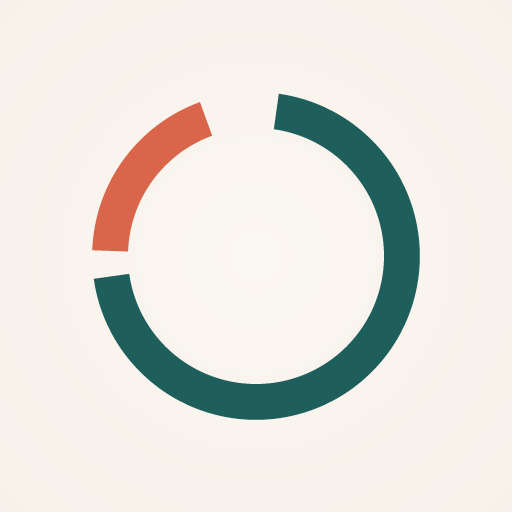
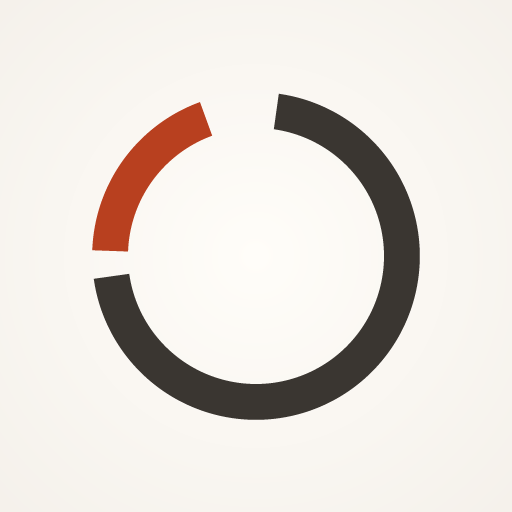
Warm charcoal redesign: new palette, status pill and budget progress in the main card, ring chart with category list

Changed region(s): [[0.1875, 0.1875, 0.8438, 0.8438], [0.1562, 0.1875, 0.4062, 0.5]]

diff --git a/css/app.css b/css/app.css
@@ -1,29 +1,38 @@
 /* My Budget – colours live here only. Light by default; dark follows the phone's setting. */
 :root {
-  --bg: #F6F1E9;
-  --surface: #FFFCF7;
-  --sheet: #FBF7F1;
-  --accent: #1F5F5B;
-  --accent-soft: rgba(31, 95, 91, 0.12);
+  --bg: #F4F0EA;
+  --surface: #FFFDF9;          /* other cards */
+  --sheet: #F8F4EE;
+  --accent: #3A3631;           /* warm charcoal: main card, + button, active tab */
+  --accent-2: #4F4A44;         /* status pill and progress track on the main card */
+  --accent-soft: rgba(58, 54, 49, 0.08);
   --on-accent: #FFFFFF;
-  --in: #3E8E63;
-  --out: #D9654B;
-  --sage: #DDEBDD;
-  --peach: #FBE3D3;
-  --lav: #E6E3F3;
-  --text: #23282B;
-  --label: #7A7F82;
-  --faint: rgba(35, 40, 43, 0.45);
-  --line: rgba(35, 40, 43, 0.09);
-  --line-strong: rgba(35, 40, 43, 0.2);
-  --field: rgba(35, 40, 43, 0.05);
-  --track: rgba(35, 40, 43, 0.08);
-  --shadow: 0 6px 22px rgba(35, 40, 43, 0.07);
-  --shadow-lift: 0 14px 36px rgba(35, 40, 43, 0.16);
-  --scrim: rgba(28, 32, 35, 0.38);
-  /* ring chart palette */
-  --c1: #1F5F5B; --c2: #3E8E63; --c3: #D9654B; --c4: #8A7FC4; --c5: #E0A458;
-  --c6: #5B9BB0; --c7: #C77D9A; --c8: #9BA65D; --c9: #7A7F82;
+  --on-accent-label: #D9D2C8;
+  --hero-fill: #F4EDE2;        /* progress fill on the main card */
+  --strong: #3A3631;           /* focus rings, links, dots, progress fills on light cards */
+  --in: #3F5139;               /* money in text */
+  --out: #94533A;              /* money out text */
+  --in-bg: #E3EADD;
+  --out-bg: #F3E1D3;
+  --soft: #EFE9E0;             /* quiet inner boxes: advice line, goal rows */
+  --settings-bg: #E8E1D6;
+  --tab-idle: #8A847C;
+  --sage: var(--in-bg);
+  --peach: var(--out-bg);
+  --lav: var(--soft);
+  --text: #23211E;
+  --label: #5E5A55;
+  --faint: rgba(35, 33, 30, 0.45);
+  --line: rgba(35, 33, 30, 0.08);
+  --line-strong: rgba(35, 33, 30, 0.2);
+  --field: rgba(35, 33, 30, 0.05);
+  --track: rgba(35, 33, 30, 0.08);
+  --shadow: 0 6px 22px rgba(58, 54, 49, 0.06);
+  --shadow-lift: 0 14px 36px rgba(58, 54, 49, 0.16);
+  --scrim: rgba(27, 25, 23, 0.36);
+  /* spending category colours: deep, warm, saturated */
+  --c1: #B8401F; --c2: #D4900F; --c3: #4E6B2A; --c4: #7A2E2A; --c5: #8A5A2B;
+  --c6: #A8652A; --c7: #5F6B3A; --c8: #9C3B4A; --c9: #6E5F4E;
 
   --font: ui-rounded, "SF Pro Rounded", "Nunito", "Varela Round", system-ui, -apple-system, "Segoe UI", sans-serif;
   --r-card: 26px;
@@ -37,28 +46,35 @@
 
 @media (prefers-color-scheme: dark) {
   :root {
-    --bg: #1C2023;
-    --surface: #252A2E;
-    --sheet: #22272A;
-    --accent: #2E8A83;
-    --accent-soft: rgba(46, 138, 131, 0.2);
-    --in: #6CC28F;
-    --out: #F08A6E;
-    --sage: #243A2E;
-    --peach: #3D2A23;
-    --lav: #2B2940;
+    --bg: #1B1917;
+    --surface: #25221F;
+    --sheet: #221F1C;
+    --accent: #45403A;
+    --accent-2: #5A544D;
+    --accent-soft: rgba(242, 238, 232, 0.08);
+    --on-accent: #FFFFFF;
+    --on-accent-label: #D9D2C8;
+    --hero-fill: #EDE5D8;
+    --strong: #E8E1D6;
+    --in: #AFCBA3;
+    --out: #EBA88B;
+    --in-bg: #29342A;
+    --out-bg: #3D2A23;
+    --soft: #2E2A26;
+    --settings-bg: #2E2A26;
+    --tab-idle: #8A847C;
     --text: #F2EEE8;
-    --label: #9AA0A3;
+    --label: #A8A39B;
     --faint: rgba(242, 238, 232, 0.45);
-    --line: rgba(242, 238, 232, 0.09);
+    --line: rgba(242, 238, 232, 0.08);
     --line-strong: rgba(242, 238, 232, 0.2);
     --field: rgba(242, 238, 232, 0.06);
     --track: rgba(242, 238, 232, 0.1);
     --shadow: 0 6px 22px rgba(0, 0, 0, 0.25);
-    --shadow-lift: 0 14px 36px rgba(0, 0, 0, 0.45);
+    --shadow-lift: 0 14px 36px rgba(0, 0, 0, 0.5);
     --scrim: rgba(0, 0, 0, 0.5);
-    --c1: #2E8A83; --c2: #6CC28F; --c3: #F08A6E; --c4: #A99FE0; --c5: #F0BE72;
-    --c6: #7DB8CC; --c7: #E29AB5; --c8: #B7C27A; --c9: #9AA0A3;
+    --c1: #D45A35; --c2: #E5A42B; --c3: #7A9A4E; --c4: #A9483F; --c5: #B07A45;
+    --c6: #D1823F; --c7: #8E9A5A; --c8: #C25A68; --c9: #9C8B76;
     color-scheme: dark;
   }
 }
@@ -469,7 +485,82 @@ input[type="date"].input, input[type="time"].input { min-height: 52px; }
 .switch input:focus-visible + .track { outline: 2px solid var(--accent); outline-offset: 2px; }
 
 .totals-mini.pair-gap { margin-bottom: 14px; }
-.goal-big { color: var(--accent); }
+.goal-big, .goal-amts .num, .progress-head .pct { color: var(--text); }
+
+/* ---------- Warm charcoal version ---------- */
+.shell { padding-bottom: calc(var(--tabbar-h) + var(--safe-bottom) + 120px); }
+.topbar { margin-bottom: 22px; }
+.topbar .eyebrow { color: var(--label); font-size: 13.5px; }
+.topbar .round-btn { background: var(--settings-bg); box-shadow: none; }
+.card { margin-bottom: 16px; padding: 22px; }
+.tab { color: var(--tab-idle); }
+.tab[aria-current="page"] { color: var(--text); background: var(--soft); }
+.fab { box-shadow: 0 10px 26px rgba(27, 25, 23, 0.28); }
+@media (prefers-color-scheme: dark) { .fab { border: 1px solid var(--line-strong); } }
+button:focus-visible, input:focus-visible, select:focus-visible, textarea:focus-visible, summary:focus-visible { outline-color: var(--strong); }
+.input:focus { border-color: var(--strong); }
+.link, .add-line { color: var(--text); }
+.dots i.on { background: var(--strong); border-color: var(--strong); }
+.check input { accent-color: var(--accent); }
+
+/* Other cards are plain warm white: no tints except money in / money out */
+.card.sage, .card.peach, .card.lav { background: var(--surface); box-shadow: var(--shadow); }
+.goal, .budget, .card.sage .goal, .card.peach .budget, .card.lav .goal { background: var(--soft); }
+.free-list, .add-line { background: var(--soft); }
+.badge { background: var(--settings-bg); color: var(--text); }
+.bar i, .bar i.gold { background: var(--strong); }
+.bar i.over { background: var(--out); }
+.advice, .recap-link { background: var(--soft); }
+.set-section, .set-section:nth-of-type(1), .set-section:nth-of-type(2), .set-section:nth-of-type(3) { background: var(--surface); box-shadow: var(--shadow); }
+.set-body .rows, .set-body .btn.ghost { background: var(--soft); }
+.chip[aria-pressed="true"], .switch input:checked + .track { background: var(--accent); }
+@media (prefers-color-scheme: dark) { .chip[aria-pressed="true"], .switch input:checked + .track { background: #6A635B; } }
+.empty .em-ic { background: var(--soft); color: var(--label); }
+.snapshot .totals-mini .row, .snapshot .totals-mini .row:first-child, .snapshot .totals-mini .row:last-child { background: var(--soft); }
+.totals-mini .row:first-child { background: var(--in-bg); }
+.totals-mini .row:last-child { background: var(--out-bg); }
+
+/* Main card: big number, status pill, budget progress inside */
+.hero { background: var(--accent); color: var(--on-accent); box-shadow: 0 14px 34px rgba(27, 25, 23, 0.22); padding: 26px 22px 22px; }
+.hero .label { color: var(--on-accent-label); opacity: 1; }
+.hero .big { margin: 8px 0 14px; }
+.hero .pill { display: inline-flex; align-items: center; gap: 8px; padding: 8px 14px; border-radius: 999px; background: var(--accent-2); font-size: 14.5px; font-weight: 700; }
+.hero .pill .dot { width: 7px; height: 7px; border-radius: 50%; background: var(--hero-fill); }
+.hero .hero-bar { height: 10px; border-radius: 999px; background: var(--accent-2); overflow: hidden; margin: 20px 0 8px; }
+.hero .hero-bar i { display: block; height: 100%; border-radius: 999px; background: var(--hero-fill); }
+.hero .hero-bar.fill i { transition: width .9s var(--ease); }
+.hero .hero-bar i.over { background: #EBA88B; }
+.hero .used { display: flex; flex-direction: column; align-items: flex-start; gap: 2px; width: 100%; font-size: 14.5px; color: var(--on-accent-label); text-align: left; }
+.hero .used > span:last-child { font-size: 13px; }
+.hero .used b { color: var(--on-accent); font-weight: 800; }
+.hero .net { display: flex; justify-content: space-between; align-items: center; gap: 10px; margin-top: 14px; padding-top: 14px; border-top: 1px solid rgba(255, 255, 255, 0.12); font-size: 14px; color: var(--on-accent-label); flex-wrap: wrap; }
+.hero .net b { color: var(--on-accent); font-weight: 700; }
+.hero .how { color: var(--on-accent-label); opacity: 1; }
+
+/* Money in / money out cards */
+.pair { gap: 14px; margin-bottom: 16px; }
+.pair-card { padding: 18px; }
+.pair-card.tint-sage { background: var(--in-bg); color: var(--in); }
+.pair-card.tint-peach { background: var(--out-bg); color: var(--out); }
+.pair-card .k { color: inherit; opacity: .85; }
+.pair-card .v, .pair-card .v.in, .pair-card .v.out { color: inherit; }
+.pair-card .ic { background: rgba(255, 255, 255, 0.6); color: inherit; }
+@media (prefers-color-scheme: dark) { .pair-card .ic { background: rgba(255, 255, 255, 0.08); } }
+
+/* Ring chart with the category list beside it */
+.ring-row { display: grid; grid-template-columns: 128px 1fr; gap: 16px; align-items: center; }
+.ring-row .ring { width: 128px; height: 128px; margin: 0; }
+.ring-row .ring .center small { font-size: 11px; }
+.ring-row .ring .center b { font-size: 15px; }
+.cat-list { display: flex; flex-direction: column; min-width: 0; }
+.cat-item { display: grid; grid-template-columns: auto 1fr auto; gap: 8px; align-items: center; padding: 8px 0; border-top: 1px solid var(--line); text-align: left; width: 100%; font-size: 14.5px; }
+.cat-item:first-child { border-top: 0; }
+.cat-item .n { font-weight: 600; overflow-wrap: anywhere; line-height: 1.25; }
+.cat-item .v { font-weight: 800; }
+.cat-item.pre { opacity: 0; transform: translateY(6px); }
+.cat-item.go { opacity: 1; transform: none; transition: opacity .35s var(--ease), transform .35s var(--ease); }
+.ring-how { margin-top: 12px; }
+@media (max-width: 345px) { .ring-row { grid-template-columns: 1fr; justify-items: center; } .cat-list { width: 100%; } }
 
 /* ---------- Confetti ---------- */
 .confetti { position: fixed; inset: 0; pointer-events: none; z-index: 150; overflow: hidden; }
@@ -479,6 +570,6 @@ input[type="date"].input, input[type="time"].input { min-height: 52px; }
 @media (prefers-reduced-motion: reduce) {
   html { scroll-behavior: auto; }
   *, *::before, *::after { animation: none !important; transition: none !important; }
-  .reveal, .cat-card.pre { opacity: 1 !important; transform: none !important; }
+  .reveal, .cat-card.pre, .cat-item.pre { opacity: 1 !important; transform: none !important; }
   .confetti { display: none; }
 }

diff --git a/js/views/home.js b/js/views/home.js
@@ -4,7 +4,7 @@ import { formatCents } from '../money.js';
 import { budgetMonth, shiftBudgetMonth, parseStamp } from '../dates.js';
 import { monthSummary } from '../calc.js';
 import { categoryBudgets, weeklySnapshot, adviceNote, budgetProgress, casualStatus } from '../budget.js';
-import { money, howButton, openReceipt, UNVERIFIED, categoryColour, bar, tint, emptyState } from '../components.js';
+import { money, howButton, openReceipt, UNVERIFIED, emptyState } from '../components.js';
 import { countUp, reducedMotion, EASE } from '../motion.js';
 import { openRecap } from './recap.js';
 import { backupDue } from '../backup.js';
@@ -39,12 +39,12 @@ export function renderHome(now, animate = false) {
   const hero = h('section', { class: `card hero${rv}` },
     h('div', { class: 'label' }, "What's left"),
     sum.left.ok ? big : h('p', { class: 'unverified' }, UNVERIFIED),
-    casual ? h('p', { class: 'casual' }, casual) : null,
-    h('div', { class: 'hero-foot' },
-      h('button', { class: `status ${sum.status}`, onClick: (e) => sum.net.ok && openReceipt(sum.net, e.currentTarget) },
-        h('span', { class: 'dot' }),
-        h('span', {}, statusText),
-        sum.net.ok ? h('span', { class: 'num' }, formatCents(sum.net.value, { sign: 'always' })) : null),
+    casual ? h('div', {}, h('span', { class: 'pill' }, h('span', { class: 'dot' }), casual)) : null,
+    heroProgress(progress, motion),
+    // Ahead / behind this month, with its own "show me how"
+    h('div', { class: 'net' },
+      h('button', { class: 'press', onClick: (e) => sum.net.ok && openReceipt(sum.net, e.currentTarget.closest('.card')) },
+        `${statusText} `, sum.net.ok ? h('b', { class: 'num' }, formatCents(sum.net.value, { sign: 'always' })) : null),
       sum.left.ok ? howButton(sum.left) : null));
 
   // ---- One gentle line at a time: passcode set-up first, then backup, then spending advice.
@@ -93,7 +93,31 @@ export function renderHome(now, animate = false) {
       row(`Carried over from ${sum.previousLabel}`, sum.carry, sum.carry.value < 0 ? 'out' : 'in'),
       sum.saved.ok && sum.saved.value !== 0 ? row('Moved to savings', sum.saved, 'save') : null));
 
-  return [hero, advice, recapLink, pair, extra, renderProgress(progress, motion, rv), renderRing(sum, motion, rv)];
+  return [hero, advice, recapLink, pair, extra, renderRing(sum, motion, rv)];
+}
+
+// Budget progress inside the main card: "53% of this month's budget used"
+function heroProgress(p, motion) {
+  if (!p.ok) {
+    return p.empty ? null : h('p', { class: 'used' }, UNVERIFIED);
+  }
+  const width = `${Math.min(100, p.value)}%`;
+  const fill = h('i', { class: p.value > 100 ? 'over' : '' });
+  const barEl = h('div', { class: `hero-bar${motion ? ' fill' : ''}`, role: 'progressbar', 'aria-valuenow': String(Math.min(100, p.value)), 'aria-valuemin': '0', 'aria-valuemax': '100', 'aria-label': 'Budget used' }, fill);
+  if (motion) {
+    fill.style.width = '0%';
+    setTimeout(() => requestAnimationFrame(() => { fill.style.width = width; }), 160);
+  } else {
+    fill.style.width = width;
+  }
+  const pct = h('b', { class: 'num' });
+  if (motion) countUp(pct, p.value, (v) => `${v}%`, { duration: 900, delay: 160 });
+  else pct.textContent = `${p.value}%`;
+  return h('div', {},
+    barEl,
+    h('button', { class: 'used press', onClick: (e) => openReceipt(p, e.currentTarget.closest('.card')) },
+      h('span', {}, pct, p.basis === 'budget' ? " of this month's budget used" : " of this month's money used"),
+      h('span', { class: 'num' }, `${formatCents(p.spent)} of ${formatCents(p.base)}`)));
 }
 
 function daysSince(startStamp, now) {
@@ -102,30 +126,10 @@ function daysSince(startStamp, now) {
   return Math.floor((Date.UTC(b.y, b.m - 1, b.d) - Date.UTC(a.y, a.m - 1, a.d)) / 86400000);
 }
 
-// ---- Progress: how much of this month's budget has been spent
-function renderProgress(p, motion, rv) {
-  const card = h('section', { class: `card${rv}` }, h('h2', {}, "This month's budget"));
-  if (!p.ok) {
-    card.append(p.empty
-      ? emptyState('leaf', null, 'Add money in, or set category limits in Goals, to see how much of your budget is spent.')
-      : h('p', { class: 'unverified' }, UNVERIFIED));
-    return card;
-  }
-  const pct = h('span', { class: 'pct num' });
-  if (motion) countUp(pct, p.value, (v) => `${v}%`, { duration: 900, delay: 150 });
-  else pct.textContent = `${p.value}%`;
-  card.append(
-    h('div', { class: 'progress-head' },
-      h('span', { class: 'progress-sub' }, p.basis === 'budget' ? 'spent of your budget' : 'spent of the money you had'),
-      pct),
-    bar(p.value, { over: p.value > 100, fill: motion, delay: 110 }),
-    h('div', { class: 'progress-head' },
-      h('span', { class: 'progress-sub num' }, `${formatCents(p.spent)} of ${formatCents(p.base)}`),
-      howButton(p)));
-  return card;
-}
+// Slices take the category colours in order: burnt orange, amber, deep olive, oxblood, then similar warm tones.
+const sliceColour = (i) => `var(--c${(i % 9) + 1})`;
 
-// ---- Spending ring: rounded slices with small gaps, total in the middle
+// ---- Spending ring: slices with small gaps, total in the middle
 function renderRing(sum, motion, rv) {
   const card = h('section', { class: `card${rv}` }, h('h2', {}, 'Spending by category'));
   if (!sum.categoriesOk || !sum.moneyOut.ok) { card.append(h('p', { class: 'unverified' }, UNVERIFIED)); return card; }
@@ -134,8 +138,8 @@ function renderRing(sum, motion, rv) {
   if (!cats.length) { card.append(emptyState('sparkle', 'No spending yet', 'Your spending this month will show up here, by category.')); return card; }
 
   const CX = 100;
-  const R = 78;
-  const W = 20;
+  const R = 80;
+  const W = 22;
   const C = 2 * Math.PI * R;
   const single = cats.length === 1;
   const gap = single ? 0 : 7;
@@ -150,7 +154,7 @@ function renderRing(sum, motion, rv) {
       cx: CX, cy: CX, r: R, fill: 'none', 'stroke-width': W, 'stroke-linecap': single ? 'butt' : 'round',
       'stroke-dasharray': `${dash} ${C}`, transform: `rotate(${-90 + (startAt / C) * 360} ${CX} ${CX})`,
     });
-    seg.style.stroke = categoryColour(c.category); // CSS variable, so it follows dark mode
+    seg.style.stroke = sliceColour(i); // CSS variable, so it follows dark mode
     if (motion) {
       seg.animate([
         { strokeDasharray: `0.001 ${C}`, opacity: 0 },
@@ -170,17 +174,16 @@ function renderRing(sum, motion, rv) {
     h('div', { class: 'center' }, h('div', {}, h('small', {}, 'Spent'), totalEl)));
   ring.querySelector('circle').style.stroke = 'var(--track)';
 
-  // Small tinted cards under the ring, appearing in step with their slices.
-  const grid = h('div', { class: 'cat-grid' }, cats.map((c, i) => {
+  // Category list beside the ring, each line fading in alongside its slice.
+  const list = h('div', { class: 'cat-list' }, cats.map((c, i) => {
     const dot = h('i', { class: 'swatch' });
-    dot.style.background = categoryColour(c.category);
-    const el = h('button', { class: `cat-card tint-${tint(i)}${motion ? ' pre' : ''}`, onClick: (e) => openReceipt(c, e.currentTarget) },
-      h('span', { class: 'top' }, dot, h('span', {}, c.category)),
-      h('span', { class: 'v num' }, formatCents(c.value)));
+    dot.style.background = sliceColour(i);
+    const el = h('button', { class: `cat-item press${motion ? ' pre' : ''}`, onClick: () => openReceipt(c, card) },
+      dot, h('span', { class: 'n' }, c.category), h('span', { class: 'v num' }, formatCents(c.value)));
     if (motion) setTimeout(() => el.classList.add('go'), i * step + 80);
     return el;
   }));
 
-  card.append(ring, grid, h('div', {}, howButton(sum.moneyOut, 'Show me how (all spending)')));
+  card.append(h('div', { class: 'ring-row' }, ring, list), h('div', { class: 'ring-how' }, howButton(sum.moneyOut, 'Show me how (all spending)')));
   return card;
 }

diff --git a/index.html b/index.html
@@ -8,8 +8,8 @@
   <meta name="referrer" content="no-referrer">
   <title>My Budget</title>
   <meta name="description" content="A calm personal budget. Your data stays on your device.">
-  <meta name="theme-color" content="#F6F1E9" media="(prefers-color-scheme: light)">
-  <meta name="theme-color" content="#1C2023" media="(prefers-color-scheme: dark)">
+  <meta name="theme-color" content="#F4F0EA" media="(prefers-color-scheme: light)">
+  <meta name="theme-color" content="#1B1917" media="(prefers-color-scheme: dark)">
   <meta name="color-scheme" content="light dark">
   <meta name="apple-mobile-web-app-capable" content="yes">
   <meta name="mobile-web-app-capable" content="yes">

diff --git a/js/views/activity.js b/js/views/activity.js
@@ -48,7 +48,7 @@ export function renderActivity(now, animate = false) {
     diffText = d > 0 ? `${formatCents(d)} more than last week`
       : d < 0 ? `${formatCents(-d)} less than last week` : 'Same as last week';
   }
-  const snapshot = h('section', { class: `card lav${rv}` },
+  const snapshot = h('section', { class: `card snapshot${rv}` },
     h('h2', {}, 'Weekly snapshot'),
     h('div', { class: 'totals-mini' },
       mini('This week so far', snap.thisOut, 'out'),

diff --git a/sw.js b/sw.js
@@ -1,7 +1,7 @@
 // Lets the app open with no internet. Only caches the app's own files – never your data.
 // Network first, so updates published to GitHub show up the next time you open the app online.
 
-const CACHE = 'my-budget-v4';
+const CACHE = 'my-budget-v5';
 const FILES = [
   './',
   './index.html',
